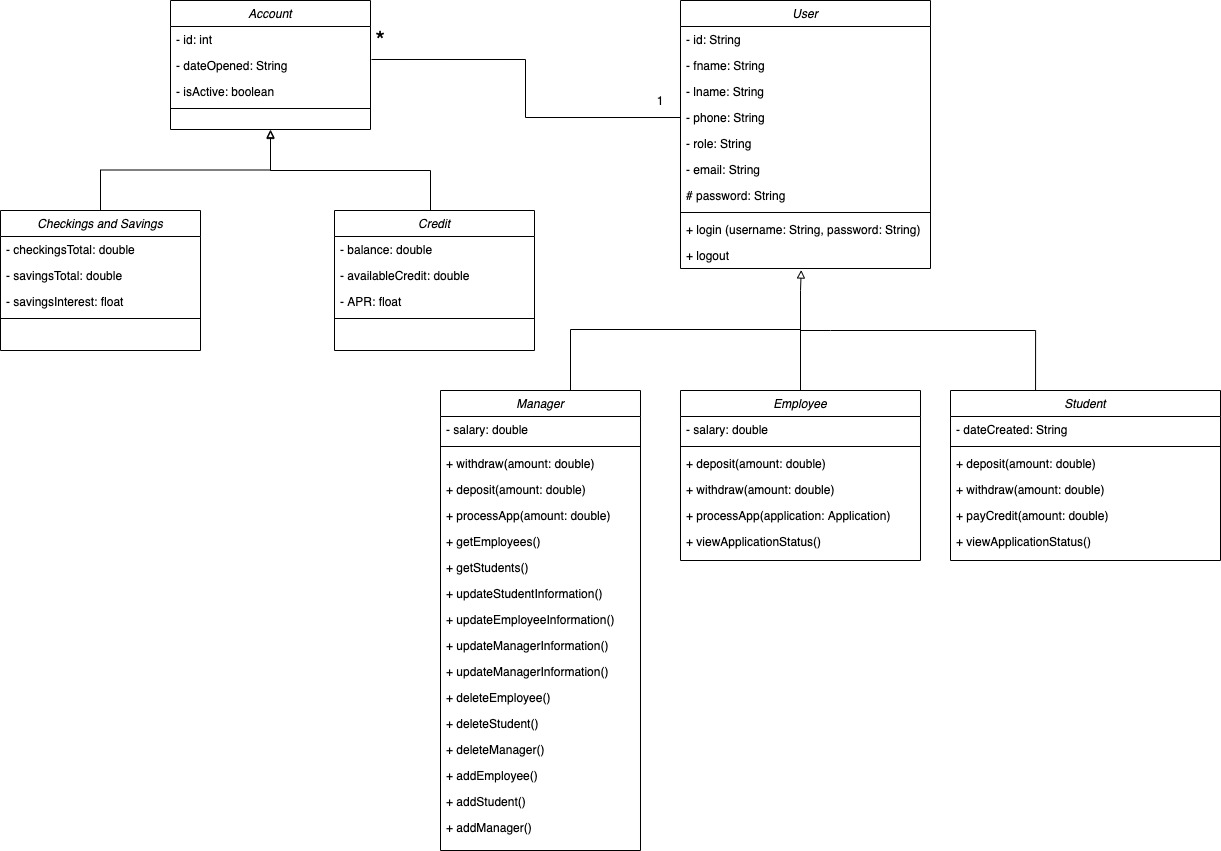
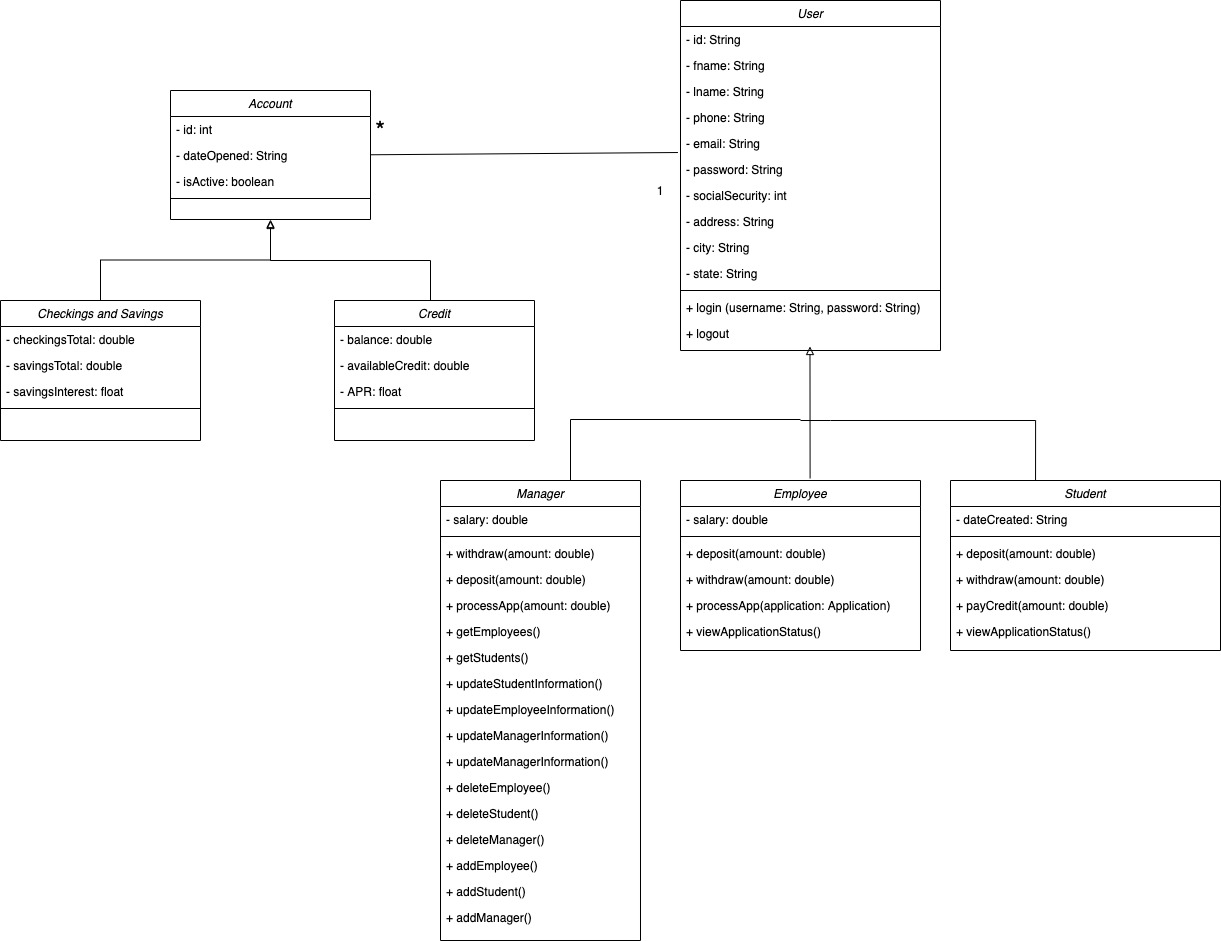
add addresses and update sql script and diagrams

diff --git a/src/java/views/Login.java b/src/java/views/Login.java
@@ -237,7 +237,11 @@ public class Login extends JFrame {
                                             resultList.get(0).get("manager_phone").toString(),
                                             resultList.get(0).get("manager_email").toString(),
                                             resultList.get(0).get("manager_password").toString(),
-                                            Double.parseDouble(resultList.get(0).get("manager_salary").toString()));
+                                            Double.parseDouble(resultList.get(0).get("manager_salary").toString()),
+                                            Integer.parseInt(resultList.get(0).get("manager_ssn").toString()),
+                                            resultList.get(0).get("manager_address").toString(),
+                                            resultList.get(0).get("manager_city").toString(),
+                                            resultList.get(0).get("manager_state").toString());
                                     break;
                                 case "Employee":
                                     employee = new Employee(Integer.parseInt(resultList.get(0).get("employee_id").toString()),
@@ -246,7 +250,11 @@ public class Login extends JFrame {
                                             resultList.get(0).get("employee_phone").toString(),
                                             resultList.get(0).get("employee_email").toString(),
                                             resultList.get(0).get("employee_password").toString(),
-                                            Double.parseDouble(resultList.get(0).get("employee_salary").toString()));
+                                            Double.parseDouble(resultList.get(0).get("employee_salary").toString()),
+                                            Integer.parseInt(resultList.get(0).get("employee_ssn").toString()),
+                                            resultList.get(0).get("employee_address").toString(),
+                                            resultList.get(0).get("employee_city").toString(),
+                                            resultList.get(0).get("employee_state").toString());
                                     break;
                                 case "Student":
                                     student = new Student(Integer.parseInt(resultList.get(0).get("student_id").toString()),
@@ -255,7 +263,11 @@ public class Login extends JFrame {
                                             resultList.get(0).get("student_phone").toString(),
                                             resultList.get(0).get("student_email").toString(),
                                             resultList.get(0).get("student_password").toString(),
-                                            resultList.get(0).get("date_created").toString());
+                                            resultList.get(0).get("date_created").toString(),
+                                            Integer.parseInt(resultList.get(0).get("student_ssn").toString()),
+                                            resultList.get(0).get("student_address").toString(),
+                                            resultList.get(0).get("student_city").toString(),
+                                            resultList.get(0).get("student_state").toString());
                                     break;
                                 default:
                                     System.out.println("Error with role selection.");

diff --git a/src/java/util/UserMappers.java b/src/java/util/UserMappers.java
@@ -2,6 +2,7 @@ package util;
 
 import model.Employee;
 import model.Student;
+
 import java.util.ArrayList;
 import java.util.List;
 import java.util.Map;
@@ -21,7 +22,11 @@ public class UserMappers {
                     resultList.get(i).get("manager_phone").toString(),
                     resultList.get(i).get("manager_email").toString(),
                     resultList.get(i).get("manager_password").toString(),
-                    Double.parseDouble(resultList.get(i).get("manager_salary").toString())));
+                    Double.parseDouble(resultList.get(i).get("manager_salary").toString()),
+                    Integer.parseInt(resultList.get(0).get("manager_ssn").toString()),
+                    resultList.get(0).get("manager_address").toString(),
+                    resultList.get(0).get("manager_city").toString(),
+                    resultList.get(0).get("manager_state").toString()));
         }
         return managers;
     }
@@ -36,7 +41,11 @@ public class UserMappers {
                     resultList.get(i).get("employee_phone").toString(),
                     resultList.get(i).get("employee_email").toString(),
                     resultList.get(i).get("employee_password").toString(),
-                    Double.parseDouble(resultList.get(i).get("employee_salary").toString())));
+                    Double.parseDouble(resultList.get(i).get("employee_salary").toString()),
+                    Integer.parseInt(resultList.get(0).get("employee_ssn").toString()),
+                    resultList.get(0).get("employee_address").toString(),
+                    resultList.get(0).get("employee_city").toString(),
+                    resultList.get(0).get("employee_state").toString()));
         }
         return employees;
     }
@@ -51,7 +60,11 @@ public class UserMappers {
                     resultList.get(i).get("student_phone").toString(),
                     resultList.get(i).get("student_email").toString(),
                     resultList.get(i).get("student_password").toString(),
-                    resultList.get(i).get("date_created").toString()));
+                    resultList.get(i).get("date_created").toString(),
+                    Integer.parseInt(resultList.get(0).get("student_ssn").toString()),
+                    resultList.get(0).get("student_address").toString(),
+                    resultList.get(0).get("student_city").toString(),
+                    resultList.get(0).get("student_state").toString()));
         }
         return students;
     }

diff --git a/src/java/model/User.java b/src/java/model/User.java
@@ -5,9 +5,12 @@ public class User {
     String fname;
     String lname;
     String phone;
-    String role;
     String email;
     String password;
+    int ssn;
+    String address;
+    String city;
+    String state;
 
     public int getId() {
         return id;
@@ -41,14 +44,6 @@ public class User {
         this.phone = phone;
     }
 
-    public String getRole() {
-        return role;
-    }
-
-    public void setRole(String role) {
-        this.role = role;
-    }
-
     public String getEmail() {
         return email;
     }
@@ -63,5 +58,37 @@ public class User {
 
     public void setPassword(String password) {
         this.password = password;
+    }
+
+    public int getSsn() {
+        return ssn;
+    }
+
+    public void setSsn(int ssn) {
+        this.ssn = ssn;
+    }
+
+    public String getAddress() {
+        return address;
+    }
+
+    public void setAddress(String address) {
+        this.address = address;
+    }
+
+    public String getCity() {
+        return city;
+    }
+
+    public void setCity(String city) {
+        this.city = city;
+    }
+
+    public String getState() {
+        return state;
+    }
+
+    public void setState(String state) {
+        this.state = state;
     }
 }

diff --git a/src/java/model/Manager.java b/src/java/model/Manager.java
@@ -10,7 +10,7 @@ import java.util.Map;
 public class Manager extends User {
     double salary;
 
-    public Manager(int id, String fname, String lname, String phone, String email, String password, double salary) {
+    public Manager(int id, String fname, String lname, String phone, String email, String password, double salary, int ssn, String address, String city, String state) {
         this.id = id;
         this.fname = fname;
         this.lname = lname;
@@ -18,6 +18,10 @@ public class Manager extends User {
         this.email = email;
         this.password = password;
         this.salary = salary;
+        this.ssn = ssn;
+        this.address = address;
+        this.city = city;
+        this.state = state;
     }
 
     public double getSalary() {
@@ -59,4 +63,5 @@ public class Manager extends User {
 
         return students;
     }
+
 }

diff --git a/src/java/model/Student.java b/src/java/model/Student.java
@@ -3,7 +3,7 @@ package model;
 public class Student extends User {
     String dateCreated;
 
-    public Student(int id, String fname, String lname, String phone, String email, String password, String dateCreated) {
+    public Student(int id, String fname, String lname, String phone, String email, String password, String dateCreated, int ssn, String address, String city, String state) {
         this.id = id;
         this.fname = fname;
         this.lname = lname;
@@ -11,6 +11,10 @@ public class Student extends User {
         this.email = email;
         this.password = password;
         this.dateCreated = dateCreated;
+        this.ssn = ssn;
+        this.address = address;
+        this.city = city;
+        this.state = state;
     }
 
     public String getDateCreated() {

diff --git a/src/java/model/Employee.java b/src/java/model/Employee.java
@@ -3,7 +3,7 @@ package model;
 public class Employee extends User {
     double salary;
 
-    public Employee(int id, String fname, String lname, String phone, String email, String password, double salary) {
+    public Employee(int id, String fname, String lname, String phone, String email, String password, double salary, int ssn, String address, String city, String state) {
         this.id = id;
         this.fname = fname;
         this.lname = lname;
@@ -11,6 +11,10 @@ public class Employee extends User {
         this.email = email;
         this.password = password;
         this.salary = salary;
+        this.ssn = ssn;
+        this.address = address;
+        this.city = city;
+        this.state = state;
     }
 
     public double getSalary() {
